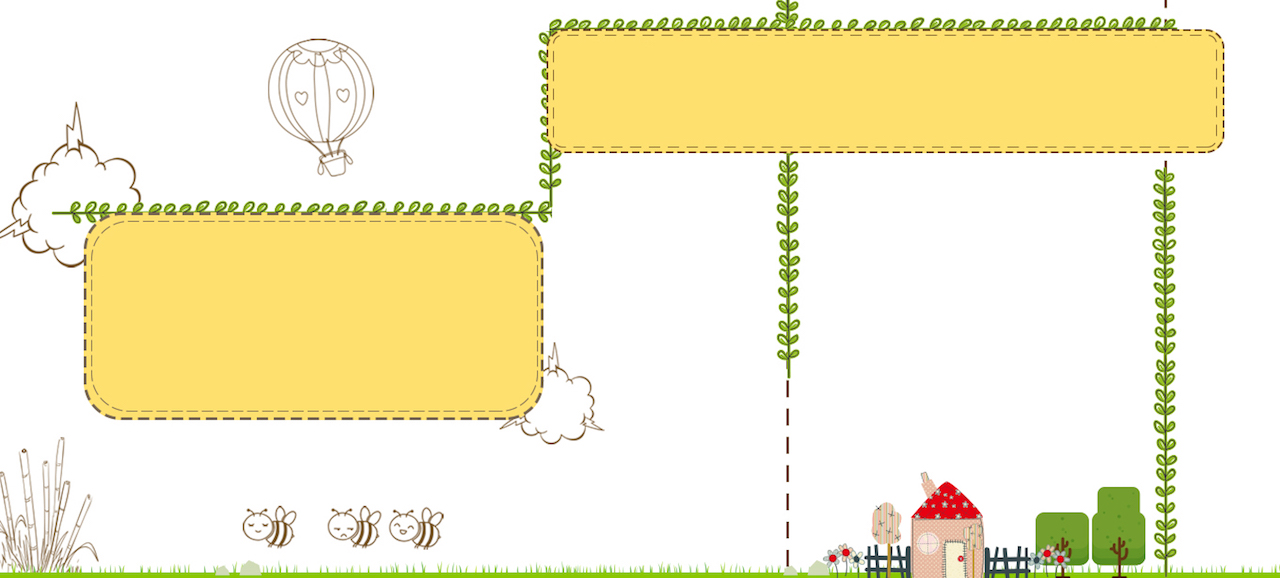
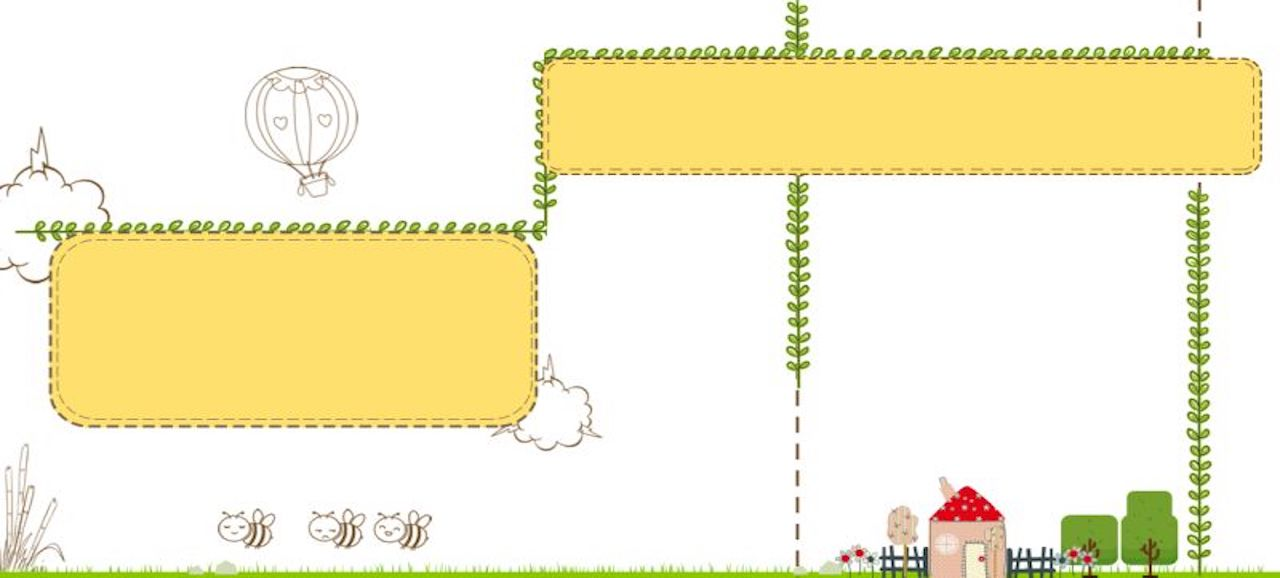
add

Changed region(s): [[0.0, 0.0, 1.0, 1.0], [0.5938, 0.8097, 0.625, 0.872], [0.5938, 0.9031, 0.625, 0.9343]]

diff --git a/index.html b/index.html
@@ -172,25 +172,44 @@
 <div style="background-image: url('./image/chuanglian.png');width: 100%; height: 32px;min-width:1280px;">
 
 </div>
+<style type="text/css">
+    .mygrid {
+        /*  As of August 2012, only supported in Chrome 21+ */
+        display: -webkit-flex;
+        display: flex;
+    }
+    .mycol {
+    }
+    .myfluid {
+        flex: 1;
+    }
+    .myfixed {
+        width: 1280px;
+    }
+</style>
 <!--product-->
 <section id="section-product" class="appear section clearfix">
     <div class="container-fluid">
-        <div class="row" >
-            <div style="width: 1280px; height: 578px; margin: 0 auto; padding-top: 90px; background: url(./image/section-bg2.png) center no-repeat;">
-                <div class="row">
-                    <div style="width: 439px ;height: 160px;margin-left: 780px">
-                        <h3>原蜜宝宝--当原蜜邂逅巧克力</h3>
+        <div class="row">
+            <div class="mygrid">
+                <div class="mycol myfluid" style=" background: url(./image/section-bg2left.jpeg)"></div>
+                <div class="mycol myfixed" style="height: 578px; padding-top: 90px; background: url(./image/section-bg2.png) center no-repeat;">
+                    <div class="row">
+                        <div style="width: 439px ;height: 160px;margin-left: 780px">
+                            <h3>原蜜宝宝--当原蜜邂逅巧克力</h3>
+                        </div>
+                    </div>
+                    <div class="row">
+                        <div style="width: 439px ;height: 160px;margin-left:115px">
+                            <br>
+                            <h3>" 当甜甜的原蜜邂逅浓厚的酸奶，再加上丝滑可口的可可脂，美味不言而喻。配上萌萌哒表情包，小蜜蜂分你一份快乐。 "</h3>
+                        </div>
+                        <div style="width: 350px ;height: 160px;margin-left:820px;margin-top: -160px;">
+                            以天然健康高品质为甄选标准，严选每一种原料。蜂蜜，不加工待其自然成熟，经过层层指标检测筛选，只要最健康存粹的大自然味道。无糖酸奶粉，采用鲜奶72小时低温发酵，经喷雾干燃而成，不含任何添加剂，滋味更真实浓厚。可可脂优选进口原料，保证100%纯度。
+                        </div>
                     </div>
                 </div>
-                <div class="row">
-                    <div style="width: 439px ;height: 160px;margin-left:115px">
-                        <br>
-                        <h3>" 当甜甜的原蜜邂逅浓厚的酸奶，再加上丝滑可口的可可脂，美味不言而喻。配上萌萌哒表情包，小蜜蜂分你一份快乐。 "</h3>
-                    </div>
-                    <div style="width: 350px ;height: 160px;margin-left:820px;margin-top: -160px;">
-以天然健康高品质为甄选标准，严选每一种原料。蜂蜜，不加工待其自然成熟，经过层层指标检测筛选，只要最健康存粹的大自然味道。无糖酸奶粉，采用鲜奶72小时低温发酵，经喷雾干燃而成，不含任何添加剂，滋味更真实浓厚。可可脂优选进口原料，保证100%纯度。
-                    </div>
-                </div>
+                <div class="mycol myfluid" style="background: url(./image/section-bg2right.jpeg) "></div>
             </div>
 
         </div>
